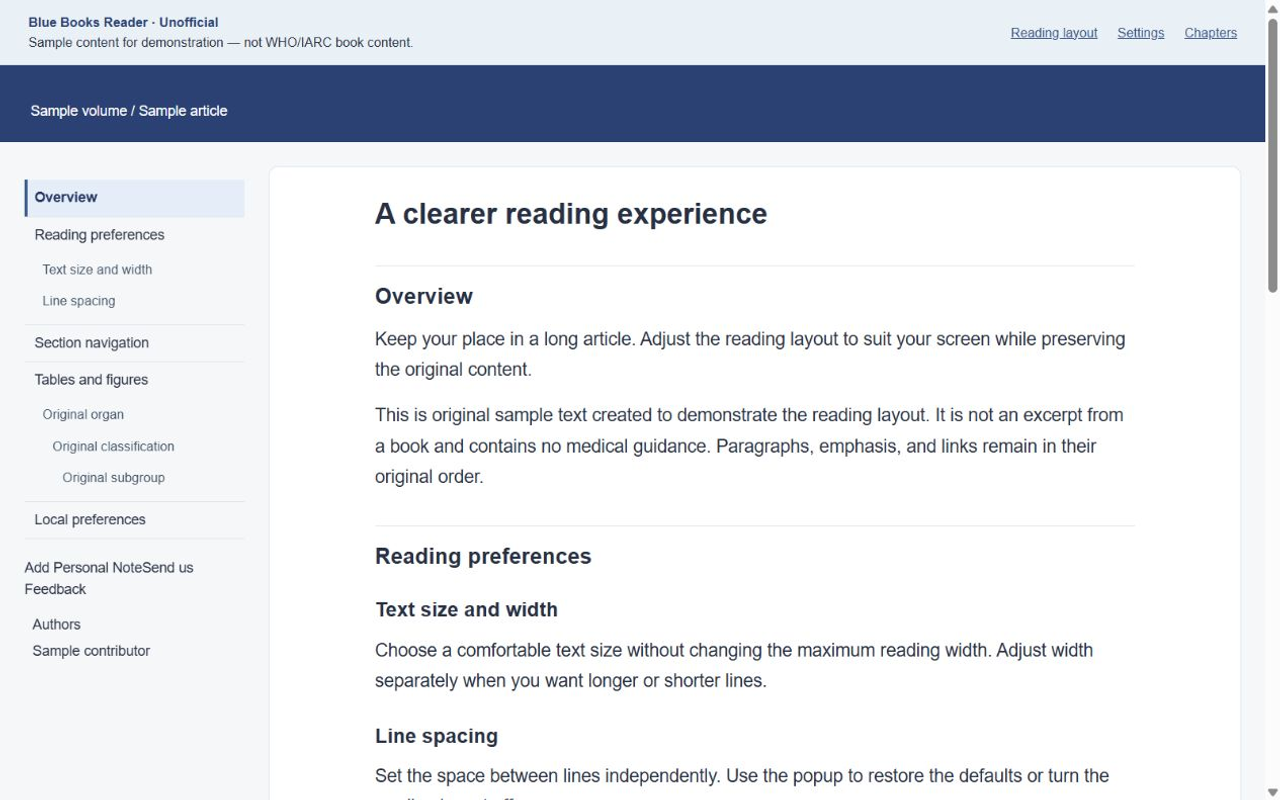
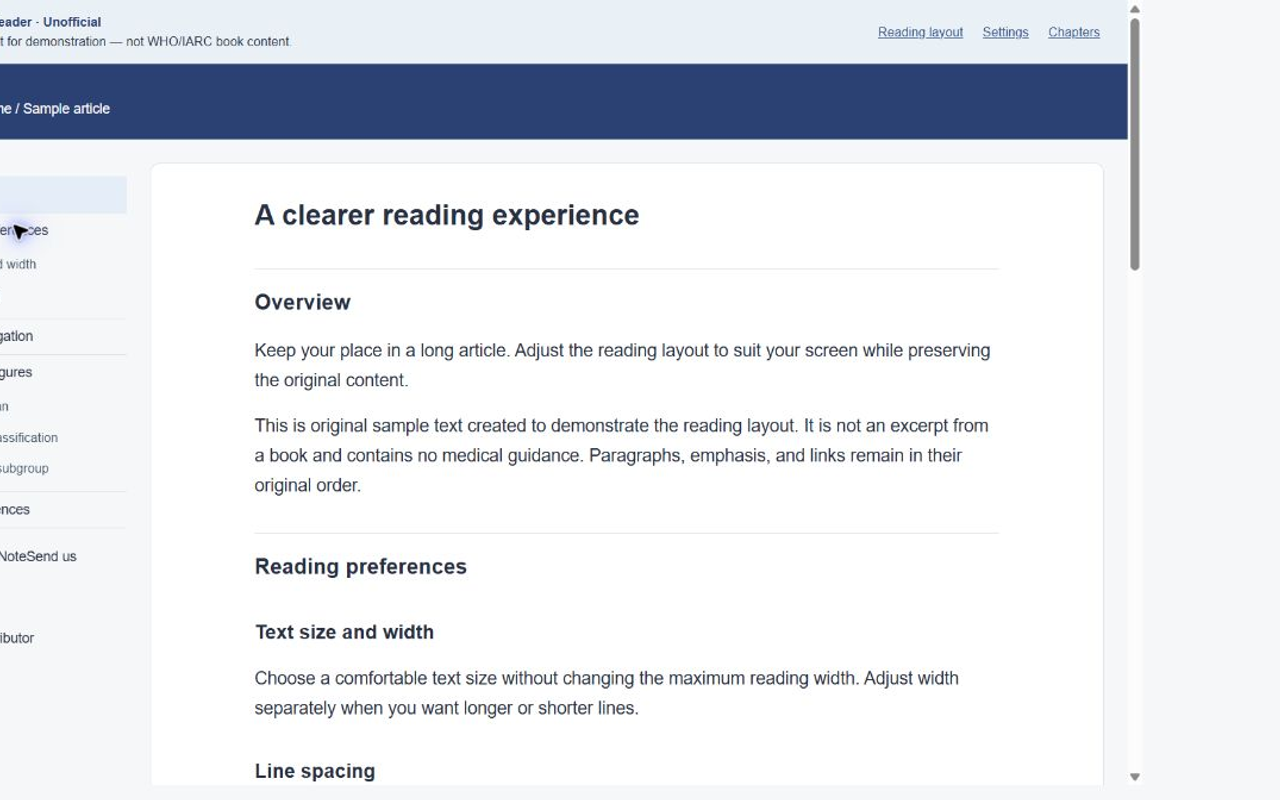
Make heading spacing follow the reading preference in 0.2.1

diff --git a/reader.css b/reader.css
@@ -16,11 +16,12 @@ html[data-wr-enabled] .wr-article .description { font-size: inherit !important; 
 html[data-wr-enabled] .wr-article p { font-size: inherit !important; line-height: inherit !important; margin: 0 0 .85em !important; text-align: start !important; overflow-wrap: break-word; hyphens: none !important; }
 html[data-wr-enabled] .wr-article > div.description { margin: 0 0 1.8em !important; }
 html[data-wr-enabled] .wr-article > div.description > span.description { display: block; }
-html[data-wr-enabled] .wr-article .wr-heading { scroll-margin-top: 24px; text-align: start !important; line-height: 1.35 !important; overflow-wrap: break-word; }
-html[data-wr-enabled] .wr-article [data-wr-level="1"] { font-size: 1.6em !important; font-weight: 700 !important; margin: 0 0 1.1em !important; }
-html[data-wr-enabled] .wr-article [data-wr-level="2"] { font-size: 1.22em !important; font-weight: 700 !important; margin: 1.4em 0 .6em !important; padding-top: .7em; border-top: 1px solid var(--wr-rule); }
-html[data-wr-enabled] .wr-article [data-wr-level="3"] { font-size: 1.12em !important; font-weight: 700 !important; margin: 1.25em 0 .6em !important; }
-html[data-wr-enabled] .wr-article [data-wr-level="4"], html[data-wr-enabled] .wr-article [data-wr-level="5"], html[data-wr-enabled] .wr-article [data-wr-level="6"] { font-size: 1em !important; font-weight: 700 !important; margin: 1.15em 0 .5em !important; }
+/* Use one body-text line as the spacing unit so heading gaps follow the user's leading. */
+html[data-wr-enabled] .wr-article .wr-heading { --wr-heading-gap: calc(var(--wr-font) * var(--wr-leading)); scroll-margin-top: 24px; text-align: start !important; line-height: var(--wr-leading) !important; overflow-wrap: break-word; }
+html[data-wr-enabled] .wr-article [data-wr-level="1"] { font-size: 1.6em !important; font-weight: 700 !important; margin: 0 0 var(--wr-heading-gap) !important; }
+html[data-wr-enabled] .wr-article [data-wr-level="2"] { font-size: 1.22em !important; font-weight: 700 !important; margin: var(--wr-heading-gap) 0 calc(var(--wr-heading-gap) / 2) !important; padding-top: calc(var(--wr-heading-gap) / 2); border-top: 1px solid var(--wr-rule); }
+html[data-wr-enabled] .wr-article [data-wr-level="3"] { font-size: 1.12em !important; font-weight: 700 !important; margin: var(--wr-heading-gap) 0 calc(var(--wr-heading-gap) / 2) !important; }
+html[data-wr-enabled] .wr-article [data-wr-level="4"], html[data-wr-enabled] .wr-article [data-wr-level="5"], html[data-wr-enabled] .wr-article [data-wr-level="6"] { font-size: 1em !important; font-weight: 700 !important; margin: var(--wr-heading-gap) 0 calc(var(--wr-heading-gap) / 2) !important; }
 html[data-wr-enabled] .wr-article a { text-underline-offset: .17em; text-decoration-thickness: 1px; text-decoration-line: underline; }
 html[data-wr-enabled] .wr-article ul, html[data-wr-enabled] .wr-article ol { padding-left: 1.6em; margin-bottom: 1em; }
 html[data-wr-enabled] .wr-article sup, html[data-wr-enabled] .wr-article sub { font-size: .75em; }

diff --git a/reader.js b/reader.js
@@ -57,7 +57,7 @@
   function stylePreferences() {
     const root = document.documentElement;
     root.setAttribute('data-wr-enabled', '');
-    root.setAttribute('data-wr-version', '0.2.0');
+    root.setAttribute('data-wr-version', '0.2.1');
     root.style.setProperty('--wr-font', `${prefs.font}px`);
     // Retain existing stored slider values, but use a font-independent CSS-pixel width.
     root.style.setProperty('--wr-width', `${prefs.width * 10}px`);

diff --git a/store/SUBMISSION.md b/store/SUBMISSION.md
@@ -1,6 +1,6 @@
 # Submission checklist
 
-Version: **0.2.0**. Status: **not submitted to Chrome Web Store**.
+Version: **0.2.1**. Status: **not submitted to Chrome Web Store**.
 
 ## Prepared
 
@@ -13,9 +13,9 @@ Version: **0.2.0**. Status: **not submitted to Chrome Web Store**.
 
 1. Review LISTING.md and REVIEWER-NOTES.md.
 2. Complete developer registration, verified contact details, and any publisher/trader declarations required by the dashboard. Do not invent these details or substitute repository metadata.
-3. Reload version 0.2.0 locally and perform the live smoke test in REVIEWER-NOTES.md. Earlier 0.1.4 behavior was confirmed by the owner; the English release needs its final installed-package check.
+3. Reload version 0.2.1 locally and perform the live smoke test in REVIEWER-NOTES.md. Earlier 0.1.4 behavior was confirmed by the owner; the English release needs its final installed-package check.
 4. Arrange authorized reviewer access to the subscription site and provide instructions privately in the dashboard.
-5. Run `npm ci --ignore-scripts`, `npm test`, and `npm run build`. Upload `dist/blue-books-reader-0.2.0.zip`, not a GitHub source archive. The manifest is at the ZIP root.
+5. Run `npm ci --ignore-scripts`, `npm test`, and `npm run build`. Upload `dist/blue-books-reader-0.2.1.zip`, not a GitHub source archive. The manifest is at the ZIP root.
 6. Fill the listing, upload images, link the public privacy policy, and complete privacy fields. Review the actual dashboard wording and personally confirm certifications.
 7. Select distribution regions, review the draft, then submit when ready. Nothing in this repository automatically publishes to the store.
 

diff --git a/docs/VERIFICATION.md b/docs/VERIFICATION.md
@@ -19,3 +19,7 @@ Changes since 0.1.4 are English popup text, branding/icons, links, documentation
 Reload the final installed package before submission and follow store/REVIEWER-NOTES.md. This is a separate publisher check. Not every volume, edition, viewport, or original-site feature has been tested.
 
 No subscription, saved note, feedback submission, or favourite was changed during evaluation. Original content and private captures are excluded from this repository.
+
+## 0.2.1 heading spacing
+
+Chrome synthetic-page checks at 18px text size and leading 1.5 / 1.9 confirmed heading top margins of 27 / 34.2px and bottom margins of 13.5 / 17.1px. Heading line height follows the selected leading. The article width stayed 816px and document horizontal overflow stayed zero. The default-leading store screenshot was refreshed. Automated source-preservation and packaging checks passed. Privacy handling and permissions are unchanged.

diff --git a/README.md b/README.md
@@ -48,7 +48,7 @@ npm test
 npm run build
 ```
 
-The build creates `dist/blue-books-reader-0.2.0.zip` and its SHA-256 checksum. An explicit allowlist puts the manifest at the ZIP root and excludes tests, dependencies, store assets, and inspection material. Dependencies are development-only; the extension has no third-party runtime code.
+The build creates `dist/blue-books-reader-0.2.1.zip` and its SHA-256 checksum. An explicit allowlist puts the manifest at the ZIP root and excludes tests, dependencies, store assets, and inspection material. Dependencies are development-only; the extension has no third-party runtime code.
 
 `npm run demo` serves original synthetic examples on localhost. They are not WHO/IARC content. The server substitutes localhost only in a served development copy; the package retains its production-origin restriction. `npm run assets` recreates the original icons and promotional artwork.
 

diff --git a/CHANGELOG.md b/CHANGELOG.md
@@ -1,5 +1,11 @@
 # Changelog
 
+## 0.2.1 — 2026-09-29
+
+- Make heading line height and surrounding margins follow the selected line spacing.
+- Keep headings closer to their following text, with a larger gap above.
+- No changes to permissions, data handling, or source content.
+
 ## 0.2.0 — 2026-09-29
 
 - Prepare English-language public distribution.
